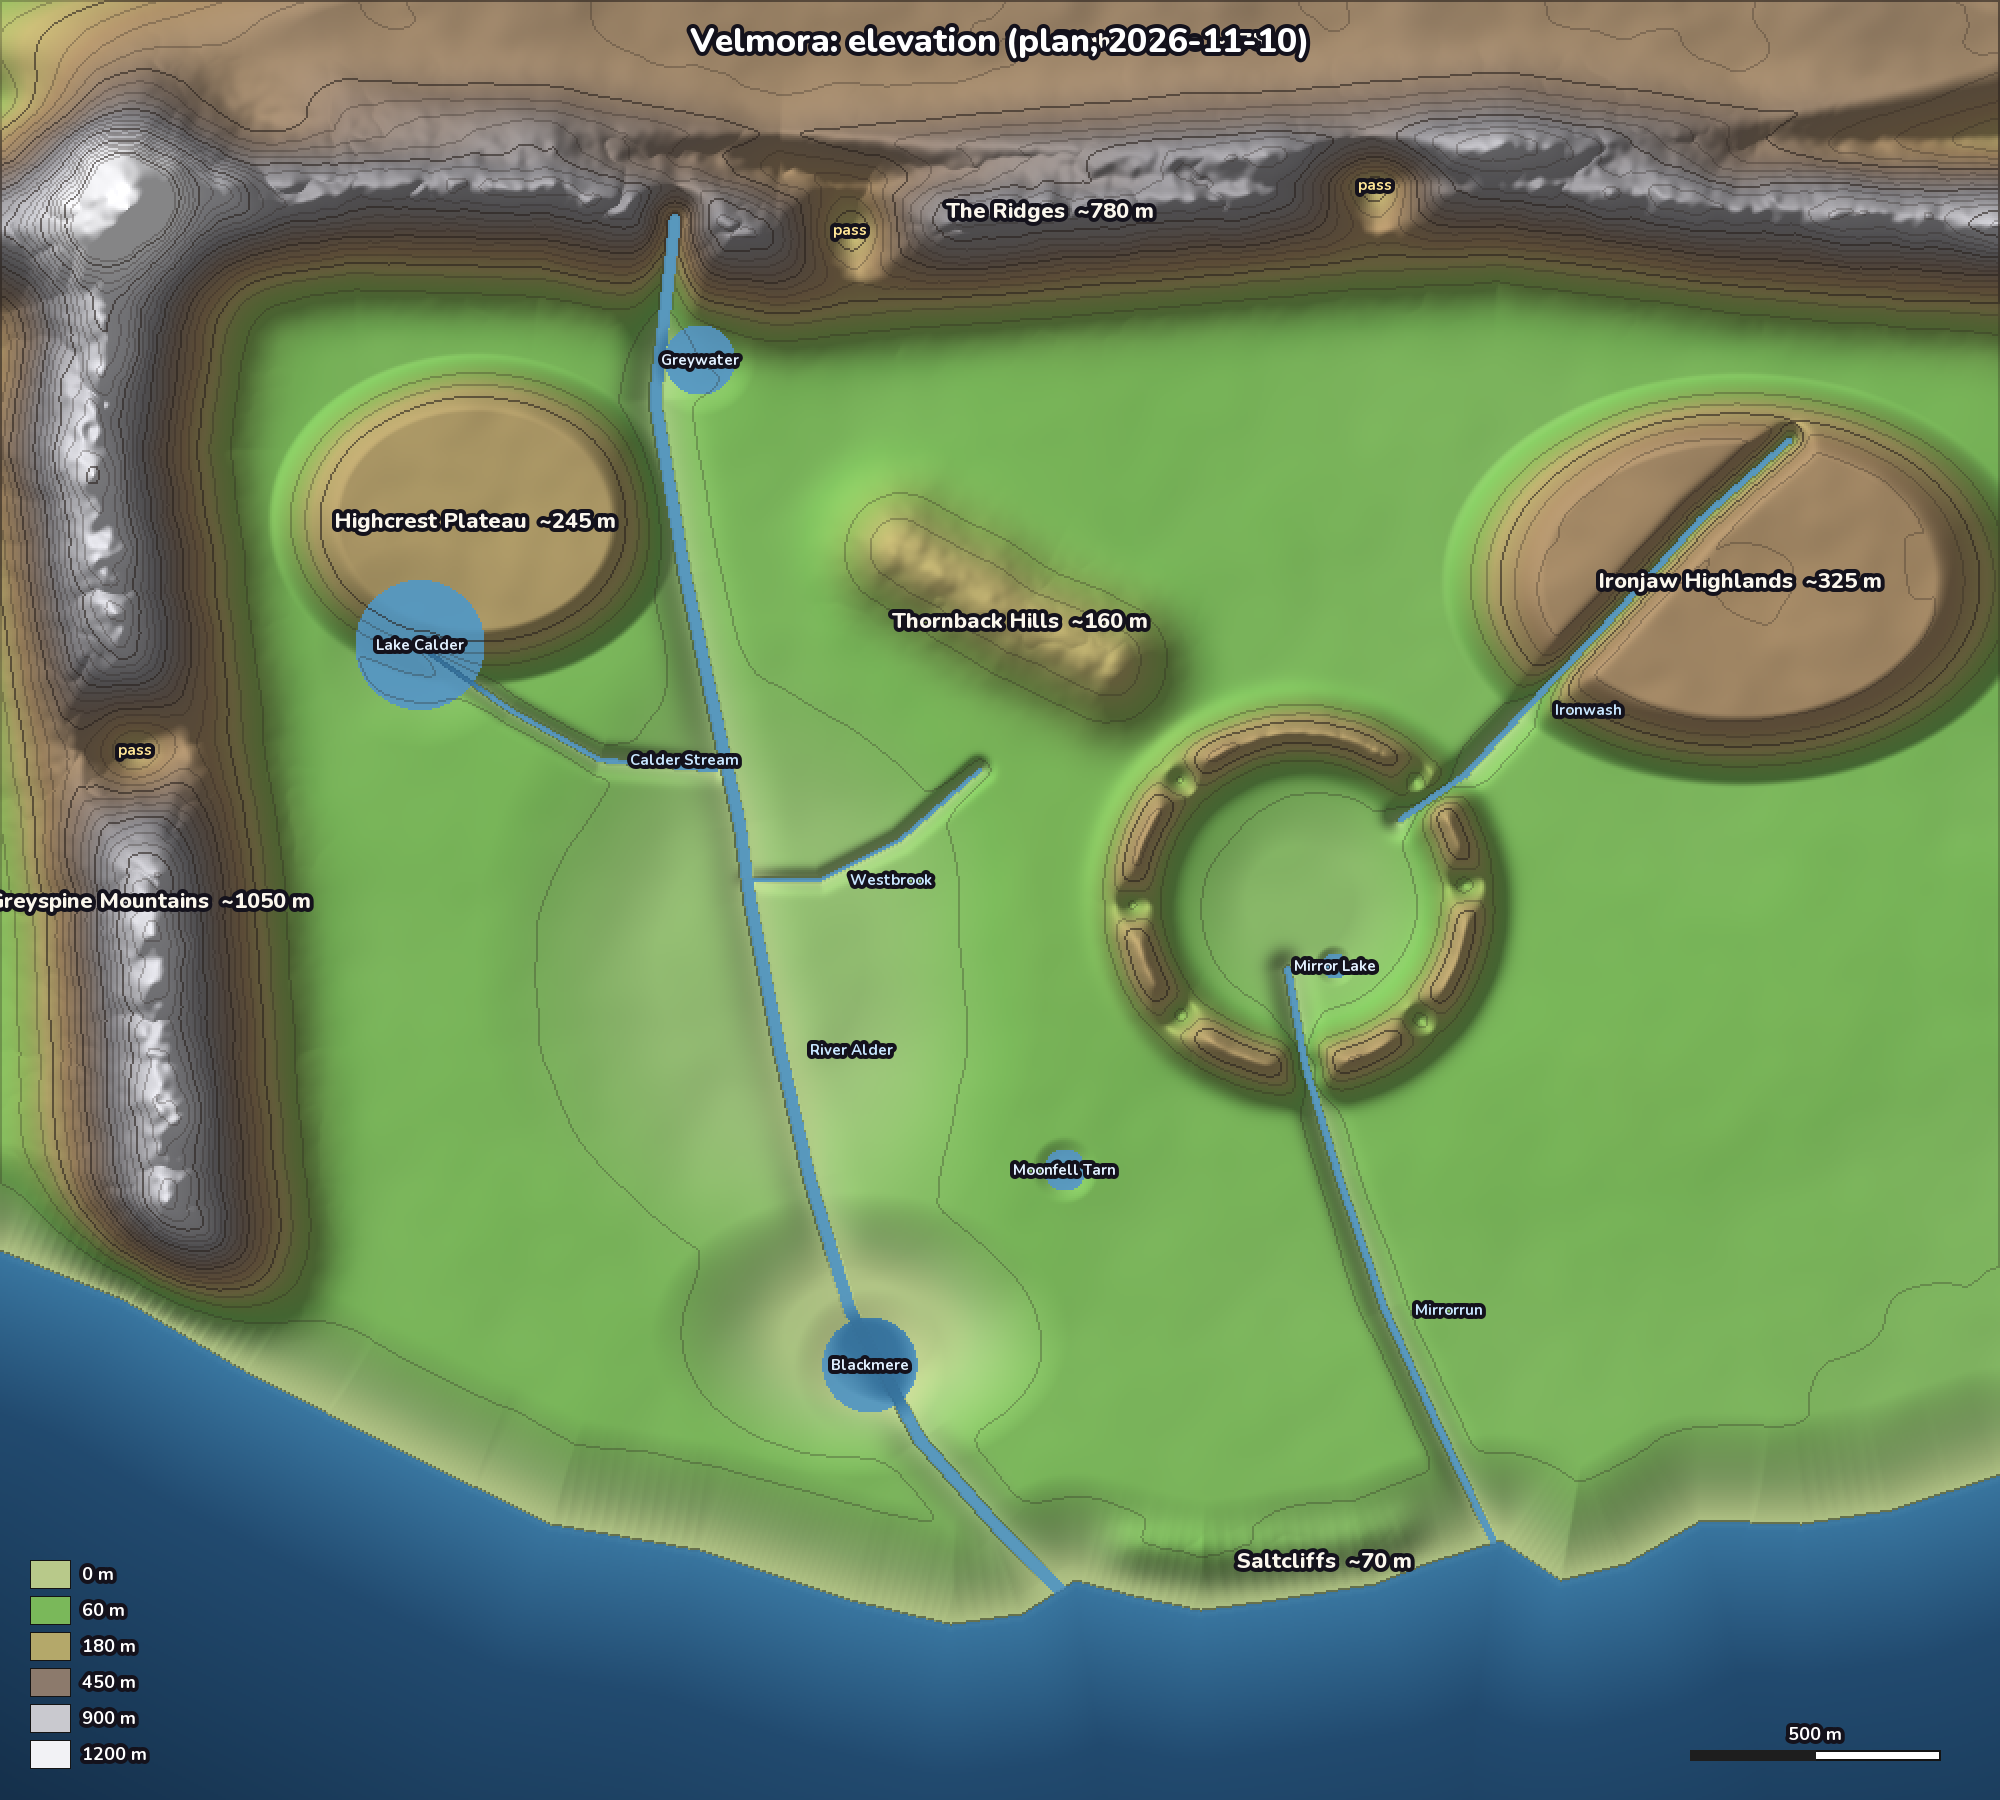
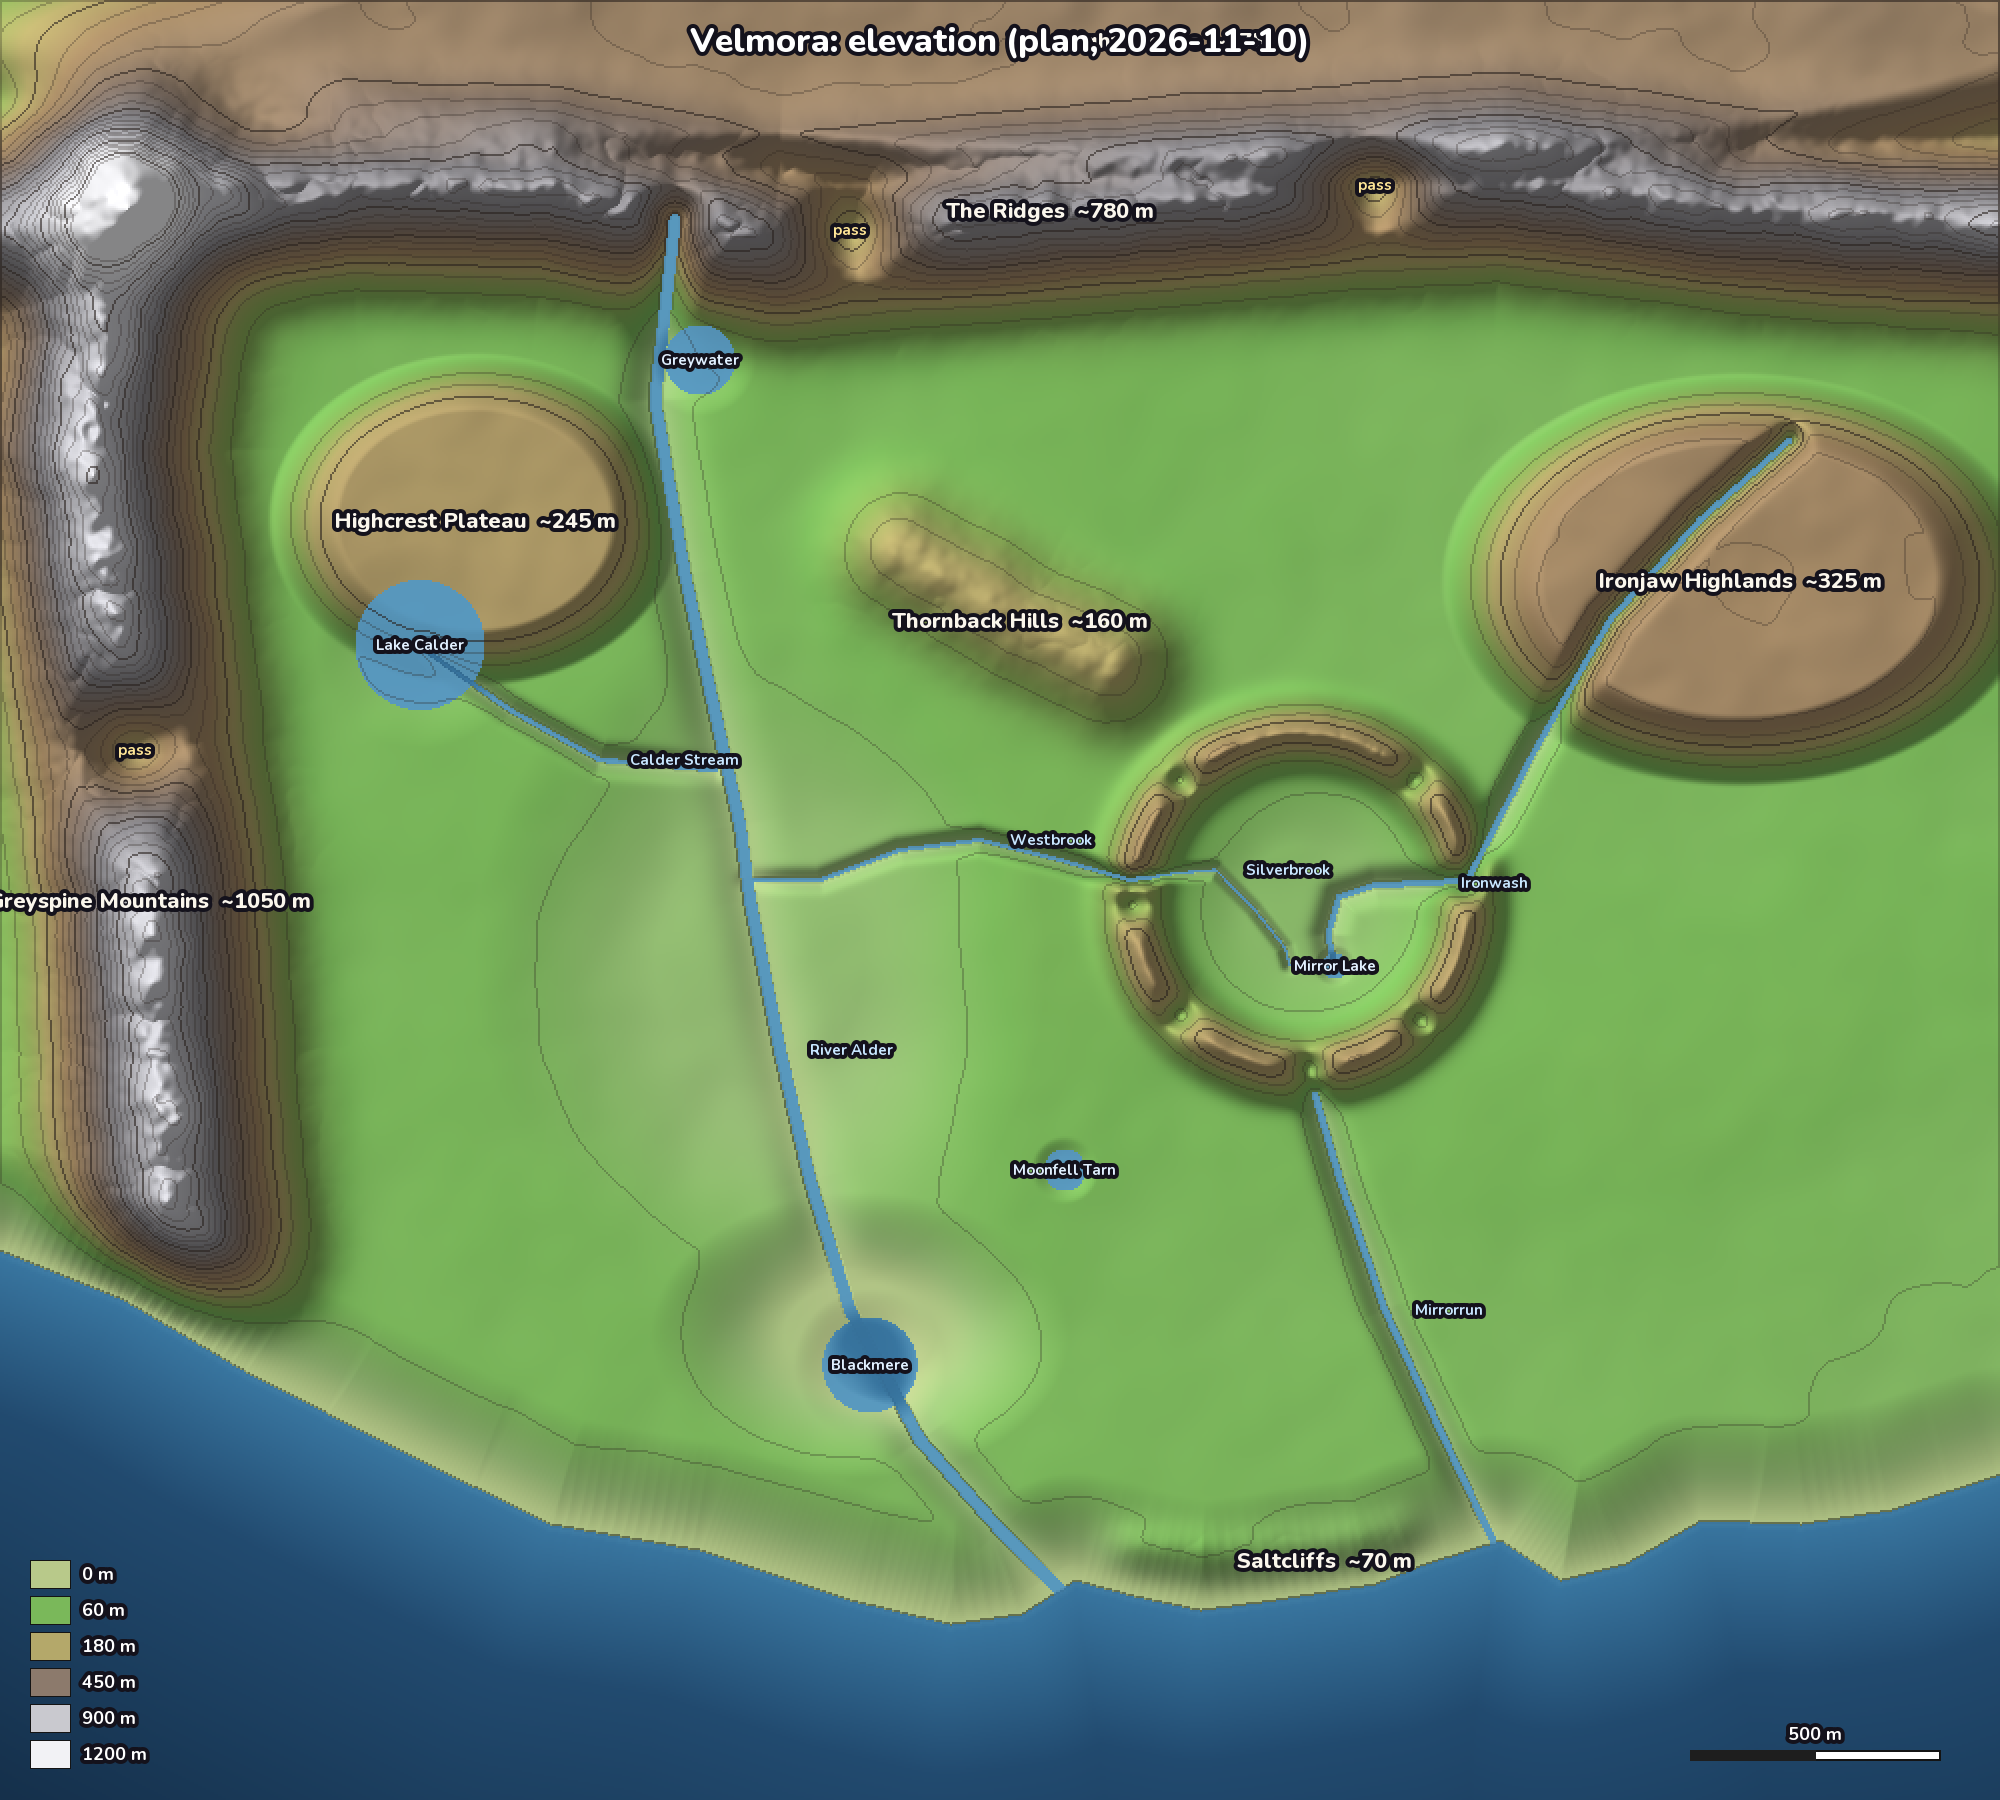
World plan: biomes, region atmosphere, settlement logic, house standard, abandoned places
Waystones travel only from stone to stone. The plan's water now matches the valley as built:
the Silverbrook leaves through the west pass as the Westbrook, the Ironwash runs into Mirror Lake,
and the Mirrorrun rises beyond the south rim. Maps redrawn.

Claude-Session: https://claude.ai/code/session_01LdsgKz31vMbMnFngz4b982

Changed region(s): [[0.403, 0.3422, 0.806, 0.6222]]

diff --git a/design/world-plan.md b/design/world-plan.md
@@ -59,9 +59,12 @@ Greyfang a Moonfell opravit v dokumentech. Jejich polohu neměnit, navazují na 
 
 **Voda:** Alder pramení pod Ridges, teče jezerem Greywater, městem Varn's Crossing a bažinou do moře
 u Saltmere. Je to páteř světa: lodní doprava, mlýny, mosty, brody. Přítoky: Calder Stream z Lake Calder
-a Westbrook z Thornwoodu. **Mirrorrun** odtéká z údolí přes Silver Falls na jih k moři u Gull's Rest.
-**Ironwash** teče z Ironjaw Highlands soutěskou (Ironwash Gorge) do údolí. Jezera: Mirror Lake
-(místo dopadu Skyfallen), Lake Calder, Blackmere, Moonfell Tarn, Greywater.
+a Westbrook. Voda v údolí odpovídá postavené zóně: **Ironwash** teče z Ironjaw Highlands soutěskou
+(Ironwash Gorge) východním sedlem do údolí a ústí do Mirror Lake. Z jezera odtéká potok k úpatí
+Silver Falls, kde začíná **Silverbrook**; ten teče údolím na sever a západním sedlem ven, odtud jako
+**Westbrook** Thornwoodem do Alder. **Mirrorrun** pramení za jižním okrajem údolí (nad Silver Falls)
+a teče na jih k moři u Gull's Rest. Jezera: Mirror Lake (místo dopadu Skyfallen), Lake Calder,
+Blackmere, Moonfell Tarn, Greywater.
 
 **Cesty:**
 - **King's Road** (hlavní silnice, dlážděná, s milníky): Highcrest, Varn's Crossing, Brindle,
@@ -80,7 +83,9 @@ Každá silnice dostane svůj vzhled (dlažba, štěrk, hlína, prkna), aby hrá
 ## 3. Cestování
 
 - **Waystones**: auréjské kameny (bílý kámen, azurové runy, stejné jako Anchor Stone). Dotykem se
-  odemknou. Z velké mapy (M) se cestuje mezi odemčenými kameny, za drobný poplatek v krystalech.
+  odemknou. Cestuje se **jen od kamene ke kameni**: hráč stojí u odemčeného kamene a z jeho mapy
+  vybere jiný odemčený kámen, za drobný poplatek v krystalech. Z libovolného místa mapy se cestovat
+  nedá, aby cesta krajinou zůstala hrou a ne čekáním na načtení.
   Jeden kámen v každém městě a vesnici a jeden u každého velkého dungeonu, celkem 14
   (`layout.json` → `waystones`).
 - **Lodě:** říční člun z Varn's Crossing do Saltmere (vyhlídková plavba po Alder, přeskočitelná)
@@ -356,9 +361,78 @@ nástěnce místní Guildy nebo hostince, a každá budova zblízka v kvalitě v
 
 ---
 
-## 8. Co plán zatím neřeší
+## 8. Biomy, atmosféra, logika sídel a opuštěná místa
+
+Doplněno z druhého návrhu (ChatGPT, 2026-11-10), převzaté jen to, co sedí na zóny a dnešní techniku.
+
+### 8.1 Biomy podle výšky, sklonu a vody
+
+Povrch a vegetaci určí pravidla, ne ruční malování. `Zone.Scatter` dostane biom z výšky nad dnem
+zóny, sklonu a vzdálenosti k vodě; zóna smí pravidla přepsat oblastmi (`grounds`).
+
+| Biom | Kde | Povrch | Vegetace | Zvířata |
+|---|---|---|---|---|
+| Louka | rovina, sklon pod 8°, dál než 12 m od vody | tráva, polní kvítí | trsy trávy, keře osamoceně, solitérní dub | ovce, krávy, jeleni |
+| Lužní les | do 20 m od řeky nebo jezera, nízko | vlhká tráva, bahno u břehu | vrby, olše, rákos, orobinec | kachny, žáby (zvuk) |
+| Okraj lesa | pás 10 až 15 m kolem lesa | tráva přechází v hrabanku | keře, mladé stromky, kapradí | srnci, divočáci |
+| Listnatý les | střední výšky, sklon pod 20° | hrabanka, mech | duby, buky, břízy, kapradí | divočáci, vlci |
+| Jehličnatý les | vyšší polohy, Greyfang | jehličí, kameny | borovice, smrky, brusinky | vlci |
+| Vřesoviště | holé návrší, Moonfell | vřes, krátká tráva, kameny | vřes, jalovec, osamělá bříza | havrani, vlkodlaci v noci |
+| Skalnatý svah | sklon nad 30° | skála, suť | trs trávy ve škvírách, kosodřevina | kozy (návrh) |
+| Pole a pastviny | u statků, ručně | pole v pásech, cesty | žádné stromy, ploty, kupky | ovce, krávy |
+| Zpustošená zem | tábory goblinů a orků | udupaná hlína, popel | pahýly, suché keře | nic |
+
+Přechody jsou měkké: pravděpodobnost rostliny se mění plynule s výškou a sklonem, žádná ostrá hranice.
+
+### 8.2 Atmosféra regionů
+
+Každý region má vlastní mlhu, barvu oblohy, světlo a zvukovou kulisu. Na hranici zóny i uvnitř
+zóny (Greyfang, Moonfell, Ironjaw) se nastavení prolíná na **40 m**, aby změna nebyla skok.
+
+| Region | Mlha | Obloha a světlo | Zvuk |
+|---|---|---|---|
+| Meadow Valley | slabá, ranní u jezera | jasně modrá, teplé slunce | ptáci, vítr v trávě, potok |
+| Greyfang | modrošedá v údolíčkách | studenější, nižší slunce | vítr v jehličí, vytí v dálce |
+| Moonfell | hustá, nízká, v noci stříbrná | fialová soumrak, velký měsíc | havrani, tiché zvony kaple |
+| Ironjaw | prach, kouř z ohňů | do oranžova | bubny, kovadliny, vítr |
+| Thornwood | zelená, paprsky světla | stíněné, skvrnité světlo | datel, praskání větví, cvrčci |
+
+### 8.3 Logika sídel
+
+- **Voda:** studny a pitná voda proti proudu, koželuhové, jatka a stoka po proudu. Ve městech je
+  stoka malý dungeon (Tanner's Drop, Undercanals).
+- **Tři šířky ulic:** hlavní silnice (vůz a chodci, 6 až 8 m), ulice (3 až 4 m), ulička a průchod
+  (do 2 m). Hlavní silnice vede k trhu a bráně.
+- **Lucerny** svítí od 19 do 6 h; u bran a na mostech celou noc.
+- **Ukazatele** na každé křižovatce silnic, se jmény míst (anglicky), aby hráč věděl bez mapy.
+- Řemesla podle surovin: mlýn u vody, kovárna u silnice, pila u lesa, rybáři u vody.
+
+### 8.4 Konstrukční standard domů
+
+Každý dům, který hráč uvidí zblízka, má: podezdívku (dům nestojí na trávě), viditelné nosné trámy
+nebo kámen v rozích, dveře se zárubní a prahem, okna s rámem a okenicemi, střechu s přesahem
+a okapem, komín u domů s ohništěm, a aspoň dva detaily u vchodu (sud, bedna, lavice, truhlík,
+nářadí). Kolize vždy z modelu. Dům na svahu má podezdívku dorovnanou ke svahu, ne zapuštěnou.
+
+### 8.5 Opuštěná místa a nová zajímavá místa
+
+Svět působí starší, když v něm jsou místa, kde něco skončilo. Bez textu, jen tím, co tam leží.
+
+- **Meadow Valley:** vypálený statek u západního sedla (černé trámy, rozbitý vůz, goblinské stopy),
+  **jeskyně za Silver Falls** (vstup do Sunken Archive), opuštěný tábor lovců u Greyfangu, starý
+  brod se zborceným mostem na Silverbrooku.
+- **Thornwood:** zarostlé kruhové domy Vel, pila zničená bouří, oběšencův dub.
+- **Greyspine:** **teplé prameny** v sedle (pára, modrá voda, místo k odpočinku), opuštěný důl.
+- **Riverlands:** zatopená vesnice u Alder (střechy nad vodou), bojiště s rezavými zbraněmi.
+- **Pobřeží:** vrak lodi na pláži, maják bez strážce.
+
+Každé místo dostane snímek ve studiu a značku na mapě až po objevení.
+
+---
+
+## 9. Co plán zatím neřeší
 
 - Přesné rozvržení ulic měst (bude dokument pro každé město při jeho stavbě).
 - Interiéry (kolik domů má vnitřek: návrh jen služby a hostince).
 - Počasí a roční období po regionech.
-- Hudba a zvukové prostředí regionů.
+- Hudba regionů (zvukové kulisy viz 8.2).

diff --git a/design/overnight-plan.md b/design/overnight-plan.md
@@ -44,3 +44,4 @@ Pravidla:
 |---|---|---|
 | 22:58 | start | plán zapsán, cron nastaven |
 | 23:40 | 1 | hotovo: nový terén údolí (5 skalisek místo vnitřních hřbetů, Silverbrook ven západním sedlem, Ironwash do Mirror Lake), most přes Ironwash u East Watch (183, −30) severojižně; nájezd i testy mostů podle delší strany desky; 327 testů zelených, snímek `ironwash_bridge` ukazuje vodu pod mostem |
+| 23:55 | 2 | hotovo: world-plan.md kapitola 8 (biomy, atmosféra s prolínáním 40 m, logika sídel, standard domů, opuštěná místa), waystones jen od kamene ke kameni, voda v `layout.json` podle údolí (Silverbrook, Westbrook, Ironwash do Mirror Lake, Mirrorrun za jižním okrajem), mapy překresleny |
